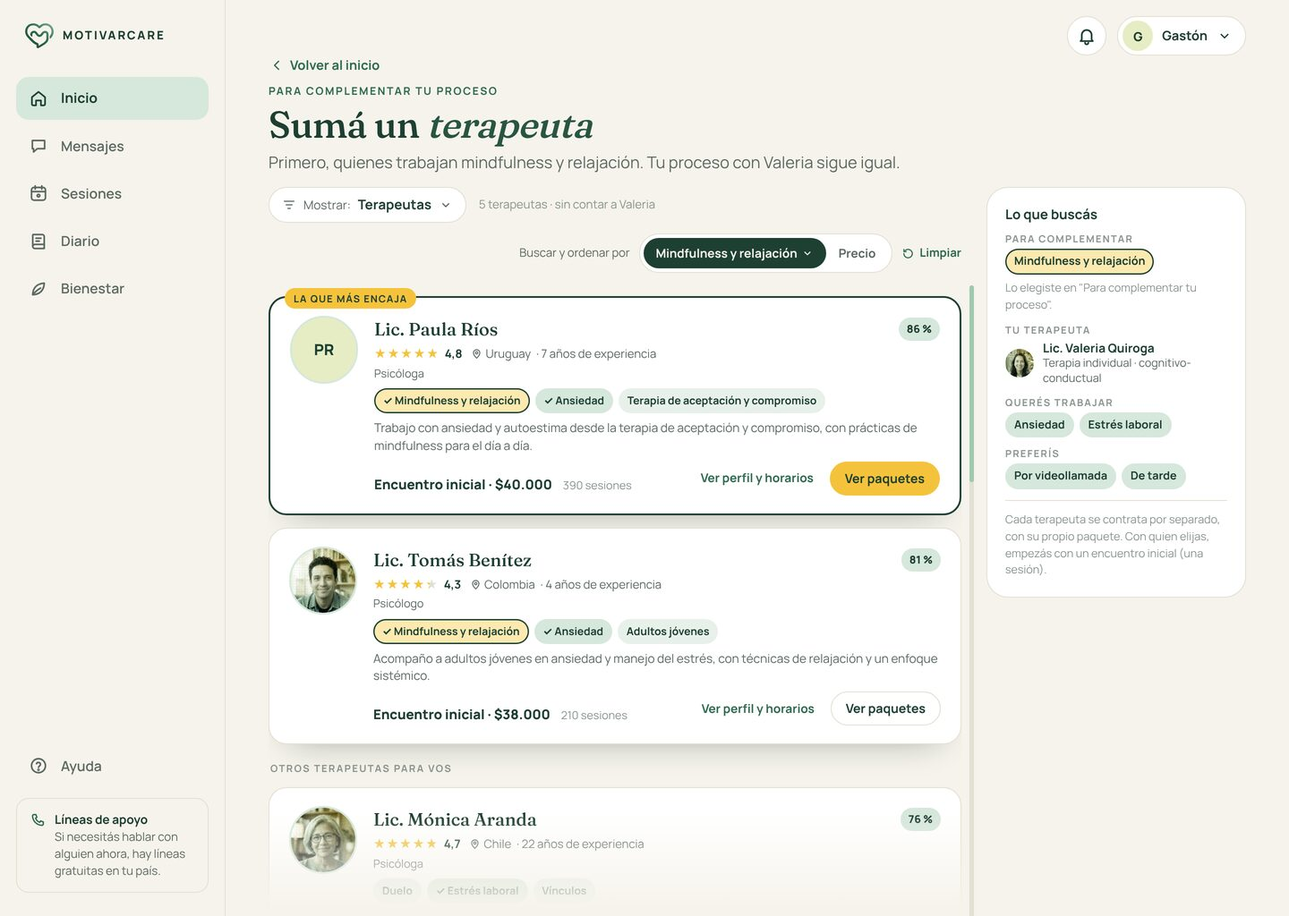
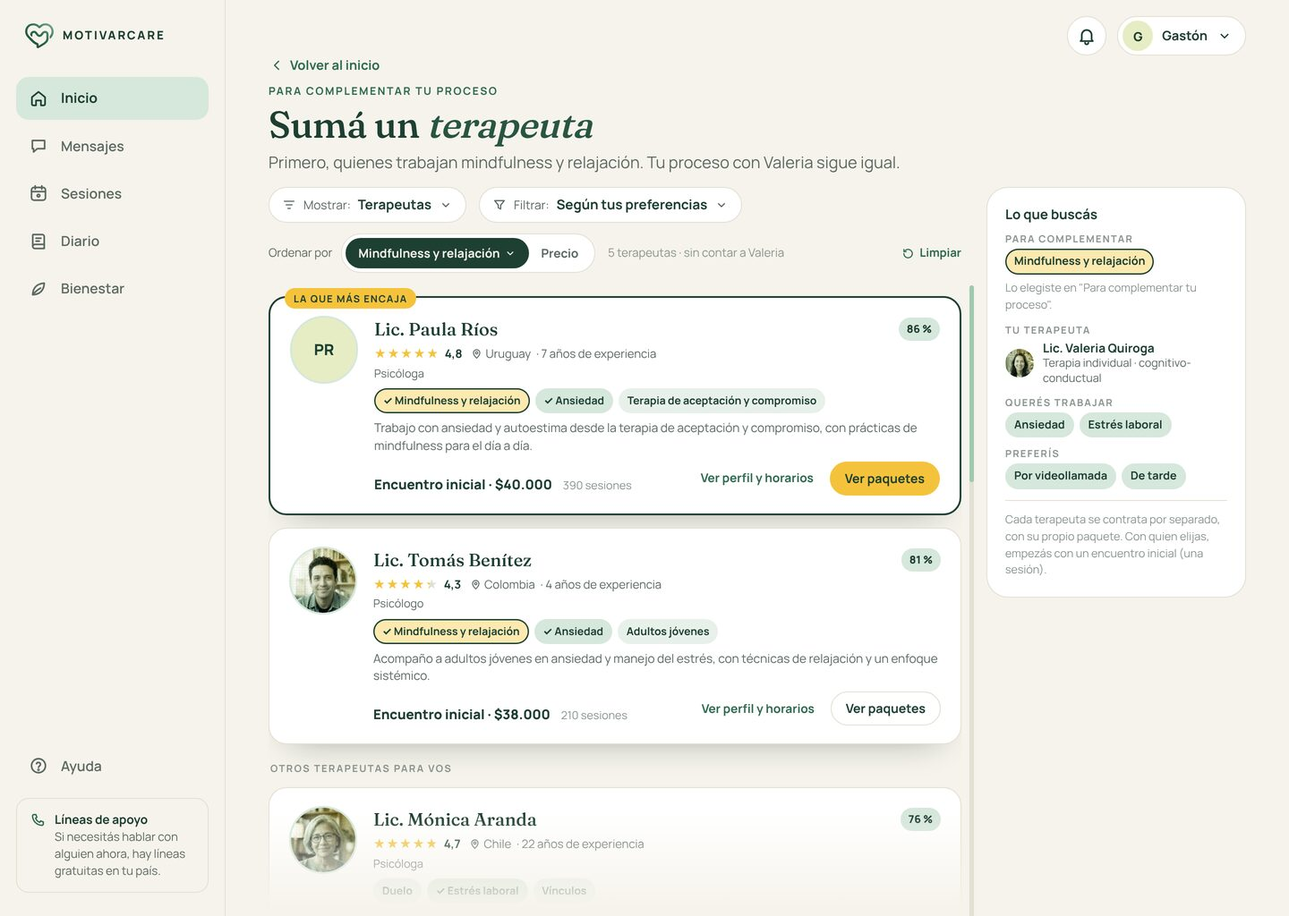
Ronda #2: el Buscador vuelve a «Ordenar por» y suma el control «Filtrar» por tipo de terapia y enfoque
Claude-Session: https://claude.ai/code/session_01WU1DRuLLvKJwMVuiPWLics

Changed region(s): [[0.2188, 0.2188, 0.6875, 0.3125]]

diff --git a/web/public/app-usuario/ronda-2.html b/web/public/app-usuario/ronda-2.html
@@ -838,30 +838,28 @@ ul.lista-simple { padding: 0; }
 .tel-pro .pro2-cab { padding-right: 88px; }
 .multi .pro2-cab { padding-right: 96px; }
 
-/* Buscador: buscar y ordenar, limpiar (14/11) */
+/* Buscador: filtro por tipo y enfoque, limpiar (14/11) */
 .limpiar { display: inline-flex; align-items: center; gap: 5px; font-size: 13px; font-weight: 700; color: var(--verde-medio); white-space: nowrap; text-decoration: none; }
 .limpiar .ico { width: 15px; height: 15px; }
 .limpiar.off { color: var(--tinta-tenue); opacity: .55; }
 .limpiar.solo-ico { width: 34px; height: 34px; justify-content: center; border-radius: 50%; border: 1px solid var(--linea); background: var(--superficie); flex: none; }
-.tel .fila-ctl .et-orden { font-size: 12px; }
-.menu-buscar { width: 360px; gap: 4px; }
-.sep-esp i, .hoja-buscar .sep-esp i { font-style: normal; font-weight: 600; letter-spacing: .04em; text-transform: none; color: var(--tinta-tenue); }
-.seg-mod { display: flex; padding: 3px; border-radius: 99px; background: var(--crema); border: 1px solid var(--linea); }
-.seg-mod span { flex: 1; text-align: center; padding: 7px 10px; border-radius: 99px; font-size: 13px; font-weight: 700; color: var(--tinta-suave); }
-.seg-mod span.on { background: var(--bosque); color: var(--crema); }
-.chips-b { display: flex; flex-wrap: wrap; gap: 6px; padding: 0 2px; }
-.chip-b { font-size: 12.5px; font-weight: 700; padding: 5px 11px; border-radius: 99px; border: 1px solid var(--linea); background: var(--superficie); color: var(--bosque); white-space: nowrap; }
-.chip-b.on { background: var(--bosque); border-color: var(--bosque); color: var(--crema); }
+.filtro-wrap { position: relative; display: inline-flex; }
+.menu-filtro { left: 0; right: auto; width: 320px; }
+.el-barra.r2 .orden-wrap { margin-left: 0; }
+.el-barra.r2 .orden-wrap .menu-esp { left: 0; right: auto; }
+.el-barra.r2 .cuenta-res { order: 5; flex-basis: 0; flex-grow: 1; }
+.el-barra.r2 .limpiar { order: 6; }
+.tel .fila-ctl .filtro { padding: 0 10px; gap: 6px; font-size: 12.5px; min-width: 0; }
+.tel .fila-ctl .filtro b { overflow: hidden; text-overflow: ellipsis; }
 .tag-foco { background: var(--amarillo-suave) !important; box-shadow: inset 0 0 0 1.5px var(--bosque); }
 .ter-mini { display: flex; align-items: center; gap: 10px; font-size: 12.5px; color: var(--tinta-suave); line-height: 1.35; }
 .ter-mini img { width: 32px; height: 32px; border-radius: 50%; object-fit: cover; }
 .ter-mini b { display: block; color: var(--bosque); font-size: 13.5px; }
 .velo { position: absolute; inset: 0; background: rgba(30,64,51,.38); z-index: 8; }
-.hoja-buscar { position: absolute; left: 0; right: 0; bottom: 0; z-index: 9; background: var(--superficie); border-radius: 24px 24px 0 0; padding: 10px 20px 22px; display: flex; flex-direction: column; gap: 6px; box-shadow: 0 -10px 30px rgba(0,0,0,.12); }
+.hoja-buscar { position: absolute; left: 0; right: 0; bottom: 0; z-index: 9; background: var(--superficie); border-radius: 24px 24px 0 0; padding: 10px 20px 22px; display: flex; flex-direction: column; gap: 2px; box-shadow: 0 -10px 30px rgba(0,0,0,.12); }
 .hoja-buscar::before { content: ''; align-self: center; width: 40px; height: 4px; border-radius: 99px; background: var(--linea); margin-bottom: 6px; }
-.hoja-cab { display: flex; align-items: center; justify-content: space-between; color: var(--bosque); font-size: 17px; }
+.hoja-cab { display: flex; align-items: center; justify-content: space-between; color: var(--bosque); font-size: 17px; margin-bottom: 4px; }
 .hoja-pie { display: flex; align-items: center; justify-content: space-between; gap: 12px; border-top: 1px solid var(--linea); padding-top: 14px; margin-top: 10px; }
-.hoja-buscar .nota-esp { margin-top: 6px; }
 </style>
 </head>
 <body>
@@ -1676,8 +1674,8 @@ ul.lista-simple { padding: 0; }
         <div>
           <div class="el-barra r2">
             <span class="filtro"><svg viewBox="0 0 24 24" class="ico chico"><path d="M4 6h16M7 12h10M10 18h4"/></svg>Mostrar: <b>Terapeutas</b><svg class="ico chico"><use href="#i-abajo"/></svg></span>
-            <span class="tenue">6 terapeutas · todos con matrícula verificada</span>
-            <span class="orden-wrap"><span class="et-orden">Buscar y ordenar por</span><span class="el-orden"><span class="on">Compatibilidad<svg class="ico chico cl"><use href="#i-abajo"/></svg></span><span>Precio</span></span><a class="limpiar off" title="No hay nada para limpiar"><svg class="ico chico"><use href="#i-limpiar"/></svg>Limpiar</a>
+            <span class="filtro-wrap"><span class="filtro"><svg viewBox="0 0 24 24" class="ico chico"><path d="M4 5h16l-6 7.5V19l-4-2v-4.5z"/></svg>Filtrar: <b>Según tus preferencias</b><svg class="ico chico"><use href="#i-abajo"/></svg></span><div class="menu-esp menu-filtro"><span class="menu-tit">Filtrar por tipo y enfoque</span><span class="op-esp on"><i class="radio"></i><span><b>Según tus preferencias</b><small>Terapia individual y cualquier enfoque, como nos contaste</small></span></span><span class="sep-esp">Tipo de terapia</span><span class="op-esp"><i class="radio"></i>Terapia individual</span><span class="op-esp"><i class="radio"></i>Terapia de pareja</span><span class="sep-esp">Enfoque</span><span class="op-esp"><i class="radio"></i>Cognitivo-conductual</span><span class="op-esp"><i class="radio"></i>Psicodinámico o psicoanalítico</span><span class="op-esp"><i class="radio"></i>Humanista</span><span class="op-esp"><i class="radio"></i>Sistémico o familiar</span><span class="nota-esp">Se puede cambiar el tipo, el enfoque o los dos. Los terapeutas que no coinciden no se muestran. Para dar prioridad a una especialidad, usá "Ordenar por".</span></div></span><span class="tenue cuenta-res">6 terapeutas · todos con matrícula verificada</span><a class="limpiar off" title="No hay nada para limpiar"><svg class="ico chico"><use href="#i-limpiar"/></svg>Limpiar</a>
+            <span class="orden-wrap"><span class="et-orden">Ordenar por</span><span class="el-orden"><span class="on">Compatibilidad<svg class="ico chico cl"><use href="#i-abajo"/></svg></span><span>Precio</span></span>
             </span>
           </div>
           <div style="position:relative"><div class="el-lista"><article class="tarjeta-pro mejor"><span class="mejor-et">La que más encaja</span><img class="avatar-pro" src="../landing/img/profesionales/valeria-quiroga.jpg" alt="" width="60" height="60">
@@ -1762,8 +1760,8 @@ ul.lista-simple { padding: 0; }
   <div class="cuerpo-tel" style="gap:10px">
     <div class="saludo" style="margin:0;gap:4px"><span class="t-fecha">Paso 1 de 4</span><h1 class="t1" style="font-size:28px">Elegí a tu <em>profesional</em></h1></div>
     <div class="el-tags" style="flex-wrap:nowrap"><span>Ansiedad</span><span>Estrés laboral</span><span>Hasta $50.000</span><span style="background:transparent;border:1.5px dashed var(--salvia-fuerte)">Cambiar</span></div>
-    <div class="fila-ctl"><span class="filtro"><svg viewBox="0 0 24 24" class="ico chico"><path d="M4 6h16M7 12h10M10 18h4"/></svg><b>Terapeutas</b><svg class="ico chico"><use href="#i-abajo"/></svg></span><span class="tenue">6 para vos</span></div>
-    <div class="fila-ctl"><span class="et-orden">Buscar y ordenar por</span><span class="el-orden"><span class="on">Compatibilidad<svg class="ico chico"><use href="#i-abajo"/></svg></span><span>Precio</span></span><a class="limpiar off solo-ico" aria-label="Limpiar"><svg class="ico chico"><use href="#i-limpiar"/></svg></a></div>
+    <div class="fila-ctl"><span class="filtro"><svg viewBox="0 0 24 24" class="ico chico"><path d="M4 6h16M7 12h10M10 18h4"/></svg><b>Terapeutas</b><svg class="ico chico"><use href="#i-abajo"/></svg></span><span class="filtro"><svg viewBox="0 0 24 24" class="ico chico"><path d="M4 5h16l-6 7.5V19l-4-2v-4.5z"/></svg><b>Según tus preferencias</b><svg class="ico chico"><use href="#i-abajo"/></svg></span></div>
+    <div class="fila-ctl"><span class="et-orden">Ordenar por</span><span class="el-orden"><span class="on">Compatibilidad<svg class="ico chico"><use href="#i-abajo"/></svg></span><span>Precio</span></span><a class="limpiar off solo-ico" aria-label="Limpiar"><svg class="ico chico"><use href="#i-limpiar"/></svg></a></div>
     <div class="el-lista-tel"><article class="tarjeta-pro mejor"><span class="mejor-et">La que más encaja</span><img class="avatar-pro" src="../landing/img/profesionales/valeria-quiroga.jpg" alt="" width="60" height="60">
   <div class="info">
     <div class="nombre"><b>Lic. Valeria Quiroga</b><span class="compat">92 %</span></div>
@@ -1836,9 +1834,9 @@ ul.lista-simple { padding: 0; }
         <div>
           <div class="el-barra r2">
             <span class="filtro"><svg viewBox="0 0 24 24" class="ico chico"><path d="M4 6h16M7 12h10M10 18h4"/></svg>Mostrar: <b>Terapeutas</b><svg class="ico chico"><use href="#i-abajo"/></svg></span>
-            <span class="tenue">6 terapeutas · todos con matrícula verificada</span>
-            <span class="orden-wrap"><span class="et-orden">Buscar y ordenar por</span><span class="el-orden"><span class="on">Ansiedad<svg class="ico chico cl"><use href="#i-abajo"/></svg></span><span>Precio</span></span><a class="limpiar"><svg class="ico chico"><use href="#i-limpiar"/></svg>Limpiar</a>
-              <div class="menu-esp menu-buscar"><span class="menu-tit">Buscar y ordenar por compatibilidad</span><span class="sep-esp">Modalidad <i>· filtra</i></span><div class="seg-mod"><span class="on">Terapia individual</span><span>Terapia de pareja</span></div><span class="sep-esp">Especialidad <i>· aparece primero</i></span><div class="chips-b"><span class="chip-b">Según todas tus respuestas</span><span class="chip-b on">✓ Ansiedad</span><span class="chip-b">✓ Estrés laboral</span><span class="chip-b">Autoestima</span><span class="chip-b">Depresión</span><span class="chip-b">Duelo</span><span class="chip-b">Mindfulness y relajación</span><span class="chip-b">Sueño y descanso</span><span class="chip-b">Vínculos</span></div><span class="sep-esp">Enfoque <i>· filtra</i></span><div class="chips-b"><span class="chip-b on">Cualquiera</span><span class="chip-b">Cognitivo-conductual</span><span class="chip-b">Psicodinámico</span><span class="chip-b">Humanista</span><span class="chip-b">Sistémico</span></div><span class="nota-esp">La modalidad y el enfoque filtran la lista. La especialidad no: quienes la trabajan aparecen primero y los demás siguen debajo. ✓ = de tus respuestas.</span></div>
+            <span class="filtro-wrap"><span class="filtro"><svg viewBox="0 0 24 24" class="ico chico"><path d="M4 5h16l-6 7.5V19l-4-2v-4.5z"/></svg>Filtrar: <b>Según tus preferencias</b><svg class="ico chico"><use href="#i-abajo"/></svg></span></span><span class="tenue cuenta-res">6 terapeutas · todos con matrícula verificada</span><a class="limpiar"><svg class="ico chico"><use href="#i-limpiar"/></svg>Limpiar</a>
+            <span class="orden-wrap"><span class="et-orden">Ordenar por</span><span class="el-orden"><span class="on">Ansiedad<svg class="ico chico cl"><use href="#i-abajo"/></svg></span><span>Precio</span></span>
+              <div class="menu-esp"><span class="menu-tit">Ordenar por compatibilidad</span><span class="op-esp"><i class="radio"></i><span><b>Según todas tus respuestas</b><small>Tiene en cuenta todo lo que nos contaste</small></span></span><span class="sep-esp">Dando prioridad a una especialidad · de tus respuestas</span><span class="op-esp on"><i class="radio"></i><b>Ansiedad</b></span><span class="op-esp"><i class="radio"></i><b>Estrés laboral</b></span><span class="sep-esp">Otras especialidades</span><span class="op-esp"><i class="radio"></i>Autoestima</span><span class="op-esp"><i class="radio"></i>Depresión</span><span class="op-esp"><i class="radio"></i>Duelo</span><span class="op-esp"><i class="radio"></i>Mindfulness y relajación</span><span class="op-esp"><i class="radio"></i>Sueño y descanso</span><span class="op-esp"><i class="radio"></i>Vínculos y pareja</span><span class="nota-esp">No es un filtro: los terapeutas de esa especialidad aparecen primero y los demás siguen en la lista. Al ordenar por precio, no se tiene en cuenta.</span></div>
             </span>
           </div>
           <div style="position:relative"><div class="el-lista"><article class="tarjeta-pro mejor"><span class="mejor-et">La que más encaja</span><img class="avatar-pro" src="../landing/img/profesionales/valeria-quiroga.jpg" alt="" width="60" height="60">
@@ -1923,8 +1921,8 @@ ul.lista-simple { padding: 0; }
   <div class="cuerpo-tel" style="gap:10px">
     <div class="saludo" style="margin:0;gap:4px"><span class="t-fecha">Paso 1 de 4</span><h1 class="t1" style="font-size:28px">Elegí a tu <em>profesional</em></h1></div>
     <div class="el-tags" style="flex-wrap:nowrap"><span>Ansiedad</span><span>Estrés laboral</span><span>Hasta $50.000</span><span style="background:transparent;border:1.5px dashed var(--salvia-fuerte)">Cambiar</span></div>
-    <div class="fila-ctl"><span class="filtro"><svg viewBox="0 0 24 24" class="ico chico"><path d="M4 6h16M7 12h10M10 18h4"/></svg><b>Terapeutas</b><svg class="ico chico"><use href="#i-abajo"/></svg></span><span class="tenue">6 para vos</span></div>
-    <div class="fila-ctl"><span class="et-orden">Buscar y ordenar por</span><span class="el-orden"><span class="on">Ansiedad<svg class="ico chico"><use href="#i-abajo"/></svg></span><span>Precio</span></span><a class="limpiar solo-ico" aria-label="Limpiar"><svg class="ico chico"><use href="#i-limpiar"/></svg></a></div>
+    <div class="fila-ctl"><span class="filtro"><svg viewBox="0 0 24 24" class="ico chico"><path d="M4 6h16M7 12h10M10 18h4"/></svg><b>Terapeutas</b><svg class="ico chico"><use href="#i-abajo"/></svg></span><span class="filtro"><svg viewBox="0 0 24 24" class="ico chico"><path d="M4 5h16l-6 7.5V19l-4-2v-4.5z"/></svg><b>Según tus preferencias</b><svg class="ico chico"><use href="#i-abajo"/></svg></span></div>
+    <div class="fila-ctl"><span class="et-orden">Ordenar por</span><span class="el-orden"><span class="on">Ansiedad<svg class="ico chico"><use href="#i-abajo"/></svg></span><span>Precio</span></span><a class="limpiar solo-ico" aria-label="Limpiar"><svg class="ico chico"><use href="#i-limpiar"/></svg></a></div>
     <div class="el-lista-tel"><article class="tarjeta-pro mejor"><span class="mejor-et">La que más encaja</span><img class="avatar-pro" src="../landing/img/profesionales/valeria-quiroga.jpg" alt="" width="60" height="60">
   <div class="info">
     <div class="nombre"><b>Lic. Valeria Quiroga</b><span class="compat">92 %</span></div>
@@ -2066,8 +2064,8 @@ ul.lista-simple { padding: 0; }
         <div>
           <div class="el-barra r2">
             <span class="filtro"><svg viewBox="0 0 24 24" class="ico chico"><path d="M4 6h16M7 12h10M10 18h4"/></svg>Mostrar: <b>Terapeutas</b><svg class="ico chico"><use href="#i-abajo"/></svg></span>
-            <span class="tenue">5 terapeutas · sin contar a Valeria</span>
-            <span class="orden-wrap"><span class="et-orden">Buscar y ordenar por</span><span class="el-orden"><span class="on">Mindfulness y relajación<svg class="ico chico cl"><use href="#i-abajo"/></svg></span><span>Precio</span></span><a class="limpiar"><svg class="ico chico"><use href="#i-limpiar"/></svg>Limpiar</a>
+            <span class="filtro-wrap"><span class="filtro"><svg viewBox="0 0 24 24" class="ico chico"><path d="M4 5h16l-6 7.5V19l-4-2v-4.5z"/></svg>Filtrar: <b>Según tus preferencias</b><svg class="ico chico"><use href="#i-abajo"/></svg></span></span><span class="tenue cuenta-res">5 terapeutas · sin contar a Valeria</span><a class="limpiar"><svg class="ico chico"><use href="#i-limpiar"/></svg>Limpiar</a>
+            <span class="orden-wrap"><span class="et-orden">Ordenar por</span><span class="el-orden"><span class="on">Mindfulness y relajación<svg class="ico chico cl"><use href="#i-abajo"/></svg></span><span>Precio</span></span>
               
             </span>
           </div>
@@ -2128,7 +2126,7 @@ ul.lista-simple { padding: 0; }
 </section>
 
 <section class="lamina">
-<h2>6 · Elegí a tu profesional en el teléfono · desde "Para complementar tu proceso", con el panel abierto</h2>
+<h2>6 · Elegí a tu profesional en el teléfono · desde "Para complementar tu proceso", con el orden abierto</h2>
 <div class="fila-tel">
 <div>
 <div class="marco tel" id="r2-6-complementar-telefono">
@@ -2142,8 +2140,8 @@ ul.lista-simple { padding: 0; }
   <div class="cuerpo-tel" style="gap:10px">
     <a class="volver-tel"><svg class="ico chico"><use href="#i-atras"/></svg>Volver al inicio</a><div class="saludo" style="margin:0;gap:4px"><span class="t-fecha">Para complementar tu proceso</span><h1 class="t1" style="font-size:28px">Sumá un <em>terapeuta</em></h1></div>
     <div class="el-tags" style="flex-wrap:nowrap"><span class="tag-foco">Mindfulness y relajación</span><span>Individual</span><span>Ansiedad</span><span>Estrés laboral</span></div>
-    <div class="fila-ctl"><span class="filtro"><svg viewBox="0 0 24 24" class="ico chico"><path d="M4 6h16M7 12h10M10 18h4"/></svg><b>Terapeutas</b><svg class="ico chico"><use href="#i-abajo"/></svg></span><span class="tenue">5 para vos</span></div>
-    <div class="fila-ctl"><span class="et-orden">Buscar y ordenar por</span><span class="el-orden"><span class="on">Mindfulness y relajación<svg class="ico chico"><use href="#i-abajo"/></svg></span><span>Precio</span></span><a class="limpiar solo-ico" aria-label="Limpiar"><svg class="ico chico"><use href="#i-limpiar"/></svg></a></div>
+    <div class="fila-ctl"><span class="filtro"><svg viewBox="0 0 24 24" class="ico chico"><path d="M4 6h16M7 12h10M10 18h4"/></svg><b>Terapeutas</b><svg class="ico chico"><use href="#i-abajo"/></svg></span><span class="filtro"><svg viewBox="0 0 24 24" class="ico chico"><path d="M4 5h16l-6 7.5V19l-4-2v-4.5z"/></svg><b>Según tus preferencias</b><svg class="ico chico"><use href="#i-abajo"/></svg></span></div>
+    <div class="fila-ctl"><span class="et-orden">Ordenar por</span><span class="el-orden"><span class="on">Mindfulness y relajación<svg class="ico chico"><use href="#i-abajo"/></svg></span><span>Precio</span></span><a class="limpiar solo-ico" aria-label="Limpiar"><svg class="ico chico"><use href="#i-limpiar"/></svg></a></div>
     <div class="el-lista-tel"><article class="tarjeta-pro mejor"><span class="mejor-et">La que más encaja</span><span class="avatar-pro ini" style="font-size:17px">PR</span>
   <div class="info">
     <div class="nombre"><b>Lic. Paula Ríos</b><span class="compat">86 %</span></div>
@@ -2173,7 +2171,7 @@ ul.lista-simple { padding: 0; }
   </div>
 </article></div>
   </div>
-  <div class="velo"></div><div class="hoja-buscar"><div class="hoja-cab"><b>Buscar y ordenar</b><svg class="ico"><use href="#i-cerrar"/></svg></div><span class="sep-esp">Modalidad <i>· filtra</i></span><div class="seg-mod"><span class="on">Terapia individual</span><span>Terapia de pareja</span></div><span class="sep-esp">Especialidad <i>· aparece primero</i></span><div class="chips-b"><span class="chip-b">Según todas tus respuestas</span><span class="chip-b">✓ Ansiedad</span><span class="chip-b">✓ Estrés laboral</span><span class="chip-b">Autoestima</span><span class="chip-b">Depresión</span><span class="chip-b">Duelo</span><span class="chip-b on">Mindfulness y relajación</span><span class="chip-b">Sueño y descanso</span><span class="chip-b">Vínculos</span></div><span class="sep-esp">Enfoque <i>· filtra</i></span><div class="chips-b"><span class="chip-b on">Cualquiera</span><span class="chip-b">Cognitivo-conductual</span><span class="chip-b">Psicodinámico</span><span class="chip-b">Humanista</span><span class="chip-b">Sistémico</span></div><span class="nota-esp">La modalidad y el enfoque filtran la lista. La especialidad no: quienes la trabajan aparecen primero y los demás siguen debajo. ✓ = de tus respuestas.</span><div class="hoja-pie"><a class="enlace"><svg class="ico chico"><use href="#i-limpiar"/></svg>Limpiar</a><a class="boton bosque">Ver 5 terapeutas</a></div></div><nav class="nav-tel">
+  <div class="velo"></div><div class="hoja-buscar"><div class="hoja-cab"><b>Ordenar por compatibilidad</b><svg class="ico"><use href="#i-cerrar"/></svg></div><span class="op-esp"><i class="radio"></i><span><b>Según todas tus respuestas</b><small>Tiene en cuenta todo lo que nos contaste</small></span></span><span class="sep-esp">Dando prioridad a una especialidad · de tus respuestas</span><span class="op-esp"><i class="radio"></i><b>Ansiedad</b></span><span class="op-esp"><i class="radio"></i><b>Estrés laboral</b></span><span class="sep-esp">Otras especialidades</span><span class="op-esp"><i class="radio"></i>Autoestima</span><span class="op-esp"><i class="radio"></i>Depresión</span><span class="op-esp"><i class="radio"></i>Duelo</span><span class="op-esp on"><i class="radio"></i>Mindfulness y relajación</span><span class="op-esp"><i class="radio"></i>Sueño y descanso</span><span class="op-esp"><i class="radio"></i>Vínculos y pareja</span><span class="nota-esp">No es un filtro: los terapeutas de esa especialidad aparecen primero y los demás siguen en la lista. Al ordenar por precio, no se tiene en cuenta.</span><div class="hoja-pie"><a class="enlace"><svg class="ico chico"><use href="#i-limpiar"/></svg>Limpiar</a><a class="boton bosque">Listo</a></div></div><nav class="nav-tel">
     <a class="activo"><span class="pastilla" style="position:relative"><svg class="ico"><use href="#i-inicio"/></svg></span>Inicio</a>
     <a><span class="pastilla" style="position:relative"><svg class="ico"><use href="#i-chat"/></svg></span>Mensajes</a>
     <a><span class="pastilla" style="position:relative"><svg class="ico"><use href="#i-sesiones"/></svg></span>Sesiones</a>

diff --git a/06-app-usuario/historial/ronda-2.md b/06-app-usuario/historial/ronda-2.md
@@ -100,7 +100,8 @@ Cada mockup se hace en escritorio (1440 × 1024) y en teléfono (390 de ancho). 
     <p>Cómo se ve al llegar, sin cambiar nada:</p>
     <ul>
       <li>"Mostrar: Terapeutas", la única opción por ahora.</li>
-      <li>"Buscar y ordenar por: Compatibilidad", con "Según todas tus respuestas" elegido en el panel, y "Limpiar" apagado porque no hay nada que limpiar.</li>
+      <li>"Filtrar: Según tus preferencias", con el menú abierto: el tipo de terapia y el enfoque.</li>
+      <li>"Ordenar por: Compatibilidad", con "Según todas tus respuestas" elegido, y "Limpiar" apagado porque no hay nada que limpiar.</li>
     </ul>
     <a class="boton-ver" href="/app-usuario/ronda-2.html#r2-5-escritorio">Ver en tamaño real →</a>
   </div>
@@ -113,25 +114,26 @@ Cada mockup se hace en escritorio (1440 × 1024) y en teléfono (390 de ancho). 
     <h3>Elegí a tu profesional · con prioridad a una especialidad</h3>
     <p>Parte de la elección de la familia 2 y mantiene el panel "Lo que nos contaste", con "Cambiar mis respuestas". Suma:</p>
     <ul>
-      <li>"<strong>Buscar y ordenar por</strong>": compatibilidad o precio. El panel de "Compatibilidad" tiene las mismas opciones que "Para complementar tu proceso": la <strong>modalidad</strong> y el <strong>enfoque</strong> (filtran) y la <strong>especialidad</strong> (va primero, sin filtrar). Con una especialidad elegida, el control dice su nombre ("Ansiedad").</li>
-      <li>"<strong>Limpiar</strong>", al lado del control, para volver al estado inicial.</li>
+      <li>Dos criterios de orden: <strong>compatibilidad</strong> y <strong>precio</strong>. Al elegir una especialidad en el menú de compatibilidad, el control pasa a decir su nombre ("Ansiedad") y sus terapeutas van primero, sin filtrar.</li>
       <li>El filtro <strong>"Mostrar"</strong>, hoy solo con terapeutas, preparado para otros profesionales.</li>
+      <li>El filtro <strong>"Filtrar"</strong>, por tipo de terapia y enfoque, que por defecto dice "Según tus preferencias".</li>
+      <li>"<strong>Limpiar</strong>", que vuelve el filtro y el orden a su estado inicial.</li>
     </ul>
     <a class="boton-ver" href="/app-usuario/ronda-2.html#r2-6-escritorio">Ver en tamaño real →</a>
   </div>
 </article>
 <article class="hecha">
   <figure><img src="/img/app-usuario/ronda-2/06-elegir-desde-complementar-escritorio.jpg" alt="Elegí a tu profesional en escritorio, al que se llega desde Para complementar tu proceso con Mindfulness y relajación elegida" loading="lazy"><figcaption>Escritorio · 1440 × 1024</figcaption></figure>
-  <figure class="tel"><img src="/img/app-usuario/ronda-2/06-elegir-desde-complementar-telefono.jpg" alt="Elegí a tu profesional en el teléfono, con el panel Buscar y ordenar abierto" loading="lazy"><figcaption>Teléfono · 390 × 844</figcaption></figure>
+  <figure class="tel"><img src="/img/app-usuario/ronda-2/06-elegir-desde-complementar-telefono.jpg" alt="Elegí a tu profesional en el teléfono, con el menú de orden abierto como hoja" loading="lazy"><figcaption>Teléfono · 390 × 844</figcaption></figure>
   <div class="texto">
     <span class="chip-estado">Mockup 6 · desde el cross-selling</span>
     <h3>Elegí a tu profesional · desde "Para complementar tu proceso"</h3>
-    <p>El mismo Buscador de profesionales, abierto desde el Inicio con los filtros ya cargados. En el ejemplo, la persona tocó "Mindfulness y relajación":</p>
+    <p>El mismo Buscador de profesionales, abierto desde el Inicio con los criterios ya cargados. En el ejemplo, la persona tocó "Mindfulness y relajación":</p>
     <ul>
       <li>"Volver al inicio", "Para complementar tu proceso" y el título "Sumá un terapeuta". Valeria no aparece en la lista.</li>
-      <li>El control dice "Mindfulness y relajación" y "Limpiar" está activo.</li>
+      <li>"Ordenar por" dice "Mindfulness y relajación" y "Limpiar" está activo.</li>
       <li>A la derecha, "Lo que buscás": lo elegido, tu terapeuta actual y tus respuestas.</li>
-      <li>En el teléfono, el panel se abre como hoja desde abajo, con "Limpiar" y "Ver 5 terapeutas".</li>
+      <li>En el teléfono, el menú de orden se abre como hoja desde abajo, con "Limpiar" y "Listo".</li>
     </ul>
     <a class="boton-ver" href="/app-usuario/ronda-2.html#r2-6-complementar-escritorio">Ver en tamaño real →</a>
   </div>
@@ -257,14 +259,15 @@ Combina la familia 2 (la agenda y la sesión mandan) con la posibilidad de traba
 Toma como punto de partida la elección de profesional de la familia 2 ([Ronda #1](/06-app-usuario/historial/ronda-1/)), con la navegación de esta ronda. Es el paso 1 de la primera sesión, al que se llega desde "Ver terapeutas" en el Inicio sin profesional (mockup 3). El título es "Elegí a tu profesional": el tipo de profesional lo define el filtro "Mostrar", que por ahora solo tiene terapeutas. Son dos mockups del mismo listado: el **5**, como se ve la primera vez, sin cambiar el orden ni el filtro, y el **6**, con prioridad a una especialidad.
 
 - **"Lo que nos contaste"** se mantiene a la derecha: las respuestas del cuestionario agrupadas (qué querés trabajar, tu experiencia, tus preferencias y tu presupuesto) y "Cambiar mis respuestas". En el teléfono, las respuestas van arriba como pills, con "Cambiar".
-- **Buscar y ordenar por: Compatibilidad ▾ · Precio** (ver los ajustes del 14/11). La especialidad no es un criterio aparte: es una forma de la compatibilidad, y **el menú de "Compatibilidad" es el único lugar para elegirla**.
+- **Ordenar por: Compatibilidad ▾ · Precio.** La especialidad no es un criterio aparte: es una forma de la compatibilidad, y **el menú de "Compatibilidad" es el único lugar para elegirla**.
   - **Por defecto**, el control dice "Compatibilidad" y dentro del menú está elegido "Según todas tus respuestas".
   - **Si la persona elige una especialidad** en el menú (solo una), el control deja de decir "Compatibilidad" y pasa a decir el nombre de la especialidad ("Ansiedad"). No hace falta aclarar "primero": la etiqueta de la izquierda ya dice "Ordenar por", no "Filtrar". Los terapeutas que la trabajan aparecen primero, ordenados por compatibilidad, y debajo, con el separador "Otros terapeutas para vos", los demás. Nadie desaparece de la lista y el porcentaje de cada tarjeta no cambia.
   - **Al volver a "Según todas tus respuestas"**, el control vuelve a decir "Compatibilidad".
   - El menú muestra primero las especialidades de tus respuestas y después las demás.
   - **Al ordenar por precio**, la especialidad elegida no se tiene en cuenta: el precio ordena a todos por igual.
-  - **Mockup 5:** el estado por defecto. **Mockup 6:** con "Ansiedad" elegida; en el escritorio, con el menú abierto.
-- **"Limpiar"**, al lado del control, vuelve todo al estado inicial: "Compatibilidad" según todas tus respuestas, la modalidad del cuestionario y cualquier enfoque. Está apagado (gris) cuando no hay nada que limpiar; en el teléfono es solo el ícono.
+  - **Mockup 5:** el estado por defecto (en el escritorio, con el menú de "Filtrar" abierto). **Mockup 6:** con "Ansiedad" elegida; en el escritorio, con el menú de orden abierto.
+- **Filtro "Filtrar":** al lado de "Mostrar", con el mismo comportamiento que "Ordenar por" (ver los ajustes del 14/11).
+- **"Limpiar"**, en la misma barra, vuelve el filtro y el orden a su estado inicial. Está apagado (gris) cuando no hay nada que limpiar; en el teléfono es solo el ícono.
 - **Filtro "Mostrar":** a la izquierda, "Mostrar: Terapeutas". En esta etapa es la única opción, pero queda preparado para sumar otras categorías de profesionales (por ejemplo, nutricionistas).
 - **Tarjetas de los terapeutas,** con las reglas de esta ronda:
   - La profesión en su propia línea ("Psicóloga clínica") y las especialidades en pills, en una sola línea. Las que coinciden con tus respuestas llevan "✓" y fondo salvia; la especialidad elegida para ordenar se resalta en amarillo suave con borde.
@@ -272,19 +275,19 @@ Toma como punto de partida la elección de profesional de la familia 2 ([Ronda #
   - "La que más encaja" marca a la primera, que lleva el único botón amarillo.
   - Cada tarjeta tiene el enlace **"Ver perfil y horarios"** y el botón **"Ver paquetes"** (en lugar de "Elegir"), para alentar a contratar y pagar lo antes posible en el recorrido. Ver paquetes lleva a las opciones de ese terapeuta; como es la primera sesión, ahí se recomienda el encuentro inicial.
 
-### Ajustes del 14/11: Buscar y ordenar
+### Ajustes del 14/11: filtrar por tipo y enfoque
 
-El Buscador de profesionales puede abrirse desde el Cross-selling de profesionales con filtros ya cargados, así que su panel tiene que poder mostrarlos:
+El Buscador de profesionales puede abrirse desde el Cross-selling de profesionales con criterios ya cargados. Se probó un solo panel, "Buscar y ordenar por", con la modalidad, la especialidad y el enfoque, pero mezclar en un mismo control lo que filtra y lo que ordena resultaba confuso. Quedó así:
 
-- La etiqueta "Ordenar por" pasa a **"Buscar y ordenar por"**: el panel ya no solo ordena, también filtra.
-- **El panel de "Compatibilidad"** tiene las mismas opciones que "Para complementar tu proceso", sin los otros rubros de profesionales (esos van en "Mostrar"):
-  1. **Modalidad** (filtra): Terapia individual o Terapia de pareja, como un control de dos opciones. Por defecto, la del cuestionario.
-  2. **Especialidad** (aparece primero, sin filtrar): "Según todas tus respuestas" o una especialidad, como pills de una sola elección. Las de tus respuestas llevan "✓" y van primero.
-  3. **Enfoque** (filtra): Cualquiera, Cognitivo-conductual, Psicodinámico, Humanista o Sistémico. Se puede elegir más de uno; "Ver otros enfoques" abre el buscador con todos menos el actual.
-  
-  Debajo, una nota aclara qué filtra y qué solo ordena. En el teléfono, el panel se abre como hoja desde abajo, con "Limpiar" y "Ver 5 terapeutas" (verde bosque, no amarillo, porque no contrata).
-- **"Limpiar"** al lado del control, con un ícono de flecha circular.
+- **"Ordenar por"** sigue como estaba: compatibilidad (según todas tus respuestas o con prioridad a una especialidad) o precio. Al menú se suman "Mindfulness y relajación" y "Sueño y descanso" entre las otras especialidades, porque el cross-selling las ofrece.
+- **Nuevo control "Filtrar"**, al lado de "Mostrar", que se comporta igual que "Ordenar por":
+  - Por defecto dice **"Según tus preferencias"**: el tipo de terapia del cuestionario y cualquier enfoque.
+  - En el menú, debajo, se puede cambiar el **tipo de terapia** (individual o de pareja), el **enfoque** (cognitivo-conductual, psicodinámico o psicoanalítico, humanista, sistémico o familiar) o los dos. Con algo elegido, el control dice lo elegido (por ejemplo, "Terapia de pareja").
+  - A diferencia del orden, el filtro sí saca de la lista a quienes no coinciden; la nota del menú lo aclara y remite a "Ordenar por" para dar prioridad a una especialidad.
+- **"Limpiar"**, con un ícono de flecha circular, vuelve el filtro y el orden a su estado inicial.
+- **Desde el cross-selling:** "Terapia de pareja" abre el buscador con ese tipo en "Filtrar"; una especialidad, con ella en "Ordenar por"; "Ver otros enfoques", con el menú de "Filtrar" abierto en el enfoque.
 - **Nueva variante del mockup 6:** el buscador abierto desde "Mindfulness y relajación". Cambia el encabezado ("Volver al inicio", "Para complementar tu proceso", "Sumá un terapeuta"), la lista no incluye al terapeuta actual y el panel de la derecha pasa a ser "Lo que buscás", con lo elegido, el terapeuta actual y la aclaración de que cada terapeuta se contrata por separado, empezando con un encuentro inicial.
+- **Mockup 5:** con el menú de "Filtrar" abierto, para mostrar sus opciones.
 
 ## 7 · Contratación: elegí tu paquete
 
@@ -329,7 +332,7 @@ Una de las decisiones de esta ronda es trabajar con **pocos componentes, robusto
 | [![Cabecera guía](/img/app-usuario/ronda-2/componentes/cabecera-guia.jpg)](/img/app-usuario/ronda-2/componentes/cabecera-guia.jpg) | **Cabecera guía** | Encabezar el Inicio con una tarjeta verde salvia que dice lo que la persona tiene que hacer ahora, con un único botón amarillo. Responde siempre "¿qué tengo que hacer ahora?". | Inicio con profesional (mockups 1, 2 y 4). | Sesión por empezar ("Entrar a la sesión", "Reprogramar"); sin turnos (próximos horarios libres y "Reservar sesión"). |
 | [![Primeros pasos](/img/app-usuario/ronda-2/componentes/primeros-pasos.jpg)](/img/app-usuario/ronda-2/componentes/primeros-pasos.jpg) | **Primeros pasos** | Guiar al usuario nuevo hacia su primera sesión: una tarjeta verde bosque con los cuatro pasos (el actual en amarillo, los pendientes punteados), "Ver terapeutas" y la aclaración de precios. | Inicio sin profesional (mockup 3). | — |
 | [![Ficha del profesional](/img/app-usuario/ronda-2/componentes/ficha-profesional.jpg)](/img/app-usuario/ronda-2/componentes/ficha-profesional.jpg) | **Ficha del profesional** | Decir siempre con quién se hace, se paga o se reserva: foto, nombre, calificación y país, especialidades, credenciales y acciones. En esta fase todos son terapeutas (en pantalla dice "Tu terapeuta"). | Inicio (mockups 1, 2 y 4), Buscador de profesionales (mockups 5 y 6), contratación (mockup 7) y reserva (mockup 8). | Completa (con el mensaje sin leer y las sesiones disponibles, con "Comprar más sesiones" cuando ya se usó la mitad del paquete, en verde bosque si queda 1 o ninguna; abajo, separados por una línea, "Escribile" y "Contanos cómo te va", de contorno con un corazón verde bosque; "Ver perfil" arriba a la derecha); con **selector de profesionales** (pastillas con avisos de sesiones y mensajes, el principal primero); resumida (dentro del Resumen de contratación); compacta (teléfono); **resultado de búsqueda** (en el Buscador de profesionales, con las especialidades que coinciden, el precio del encuentro inicial, "Ver perfil y horarios" y "Ver paquetes"). |
-| [![Buscador de profesionales](/img/app-usuario/ronda-2/componentes/buscador-profesionales.jpg)](/img/app-usuario/ronda-2/componentes/buscador-profesionales.jpg) | **Buscador de profesionales** | Encontrar y elegir un profesional: la lista de fichas (resultados de búsqueda), "Buscar y ordenar por" compatibilidad (modalidad, especialidad y enfoque) o precio, con "Limpiar", el filtro "Mostrar" por categoría de profesional y el panel "Lo que nos contaste", con "Cambiar mis respuestas". | Elección de profesional (mockups 5 y 6), desde "Ver terapeutas" (mockup 3) o desde el Cross-selling de profesionales, con los filtros cargados. | Por defecto ("Compatibilidad", según todas tus respuestas) o con una especialidad elegida (el control dice su nombre); abierto desde el cross-selling ("Sumá un terapeuta", sin el terapeuta actual, con "Lo que buscás"); panel como menú (escritorio) o como hoja (teléfono); escritorio (panel a la derecha) y teléfono (respuestas como pills). |
+| [![Buscador de profesionales](/img/app-usuario/ronda-2/componentes/buscador-profesionales.jpg)](/img/app-usuario/ronda-2/componentes/buscador-profesionales.jpg) | **Buscador de profesionales** | Encontrar y elegir un profesional: la lista de fichas (resultados de búsqueda), el orden por compatibilidad (con prioridad a una especialidad) o por precio, el filtro por tipo de terapia y enfoque ("Según tus preferencias" por defecto), "Limpiar", el filtro "Mostrar" por categoría de profesional y el panel "Lo que nos contaste", con "Cambiar mis respuestas". | Elección de profesional (mockups 5 y 6), desde "Ver terapeutas" (mockup 3) o desde el Cross-selling de profesionales, con los filtros cargados. | Por defecto ("Compatibilidad", según todas tus respuestas) o con una especialidad elegida (el control dice su nombre); abierto desde el cross-selling ("Sumá un terapeuta", sin el terapeuta actual, con "Lo que buscás"); menús desplegables (escritorio) u hoja desde abajo (teléfono); escritorio (panel a la derecha) y teléfono (respuestas como pills). |
 | [![Selector de paquetes](/img/app-usuario/ronda-2/componentes/selector-paquetes.jpg)](/img/app-usuario/ronda-2/componentes/selector-paquetes.jpg) | **Selector de paquetes** | Elegir qué contratar con un profesional: el encuentro inicial o un paquete, con su precio, su ahorro y el precio por sesión, y la opción de usar un código de descuento. | Contratación (mockup 7), desde "Ver paquetes" o "Comprar más sesiones". | Primera vez con ese profesional (el encuentro inicial recomendado y elegido por defecto) o ya con sesiones previas (los paquetes primero). |
 | [![Resumen de contratación](/img/app-usuario/ronda-2/componentes/resumen-contratacion.jpg)](/img/app-usuario/ronda-2/componentes/resumen-contratacion.jpg) | **Resumen de contratación** | Responder, junto a la acción, con quién, qué y cuánto: contiene la Ficha del profesional (variante resumida), las aclaraciones del servicio (videollamada de 50 minutos y reprogramación sin costo hasta 24 h antes), el desglose y el total, y el botón amarillo con su aclaración. | Contratación (mockup 7) y reserva (mockup 8). | **Contratación** (desglose, total y "Continuar al pago", con "Es el monto exacto que vas a ver en el pago"); **reserva** ("Tu sesión" con el día y la hora elegidos, y "Reservar sesión", "Reservar y proceder al pago" o "Reprogramar sesión"); columna derecha (escritorio) o barra fija (teléfono). |
 | [![Agenda semanal resumida](/img/app-usuario/ronda-2/componentes/agenda-semanal.jpg)](/img/app-usuario/ronda-2/componentes/agenda-semanal.jpg) | **Agenda semanal resumida** | Mostrar de un vistazo la semana: sesiones, horarios libres, ejercicios y diario, con "Ver sesiones" para ir a la página de Sesiones. | Inicio con profesional (mockups 1, 2 y 4). | Un profesional o varios (cada uno con su color); con sesiones o con horarios libres punteados; escritorio (nombre y horario en cada día) y teléfono (foto o punto). |
@@ -377,7 +380,7 @@ Las sugerencias se ordenan en cuatro niveles, de lo más cercano a lo más ampli
 3. **Otro enfoque.** El enfoque terapéutico es el método con el que trabaja el terapeuta: cognitivo-conductual (TCC), psicodinámico o psicoanalítico, humanista, sistémico o familiar, entre otros. Se llama "**enfoque**" para no confundirlo con el tipo de terapia (individual o de pareja). No va como pills: es un apartado que dice con qué enfoque trabaja hoy ("Hoy trabajás con terapia cognitivo-conductual") y pregunta si quiere conocer otros, con "Ver otros enfoques".
 4. **Otros profesionales:** otras categorías, como Nutrición y Psicopedagogía, en pills con **contorno punteado** y la aclaración **"Próximamente"**, mientras en esta fase solo haya psicólogos.
 
-Cada opción lleva a "Elegí a tu profesional" con los filtros ya cargados: la modalidad, la especialidad como prioridad en "Compatibilidad", el enfoque o la categoría en "Mostrar". Desde el 14/11, el panel "Buscar y ordenar" del Buscador de profesionales incluye la modalidad y el enfoque (ver la variante del mockup 6).
+Cada opción lleva a "Elegí a tu profesional" con los filtros ya cargados: la modalidad, la especialidad como prioridad en "Compatibilidad", el enfoque o la categoría en "Mostrar". Desde el 14/11, el Buscador de profesionales tiene el control "Filtrar" para el tipo de terapia y el enfoque; la especialidad sigue en "Ordenar por".
 - **"Buscar otro profesional"**, al final, para buscar sin sugerencias.
 - Mantiene el borde punteado (lo que todavía está por sumar) y no usa amarillo, para no competir con la sesión.
 - **No aparece en el mockup 3** (sin terapeuta): ahí no hay nada que complementar, y la acción principal ya es "Ver terapeutas".
